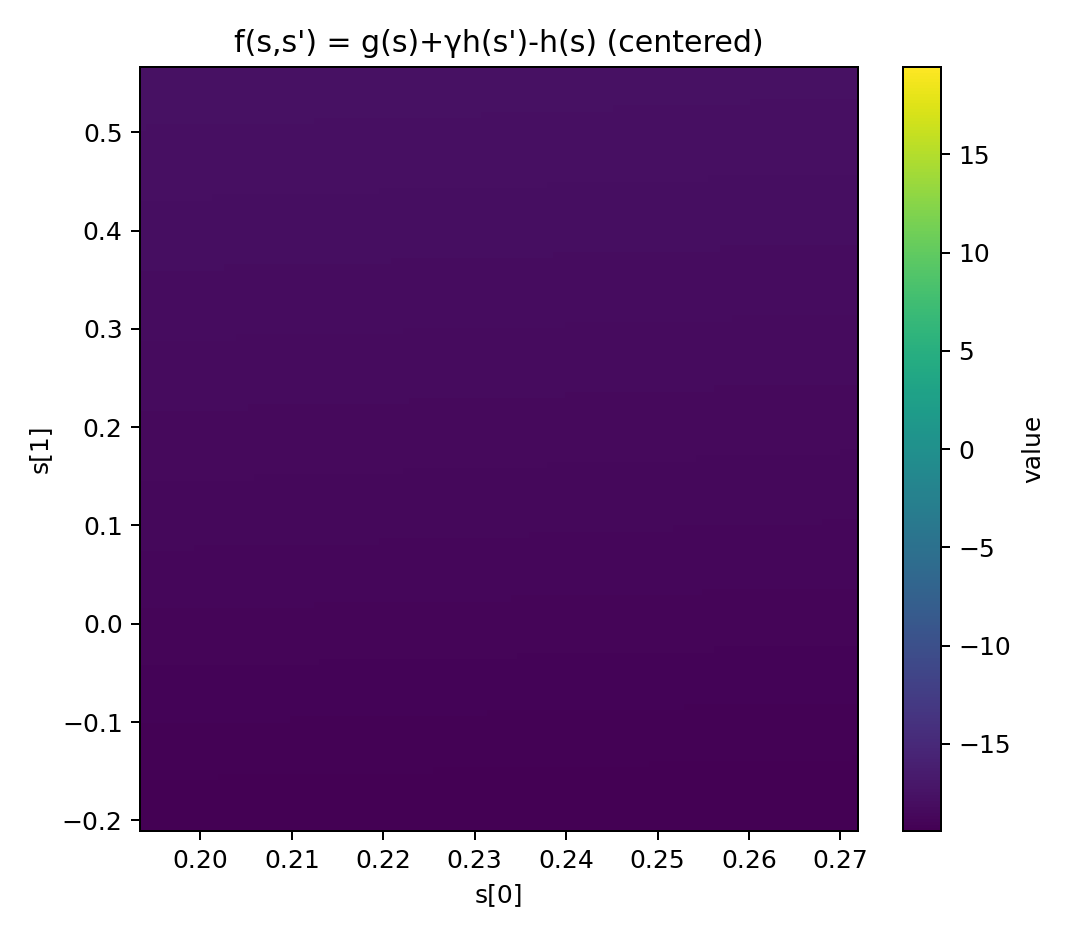
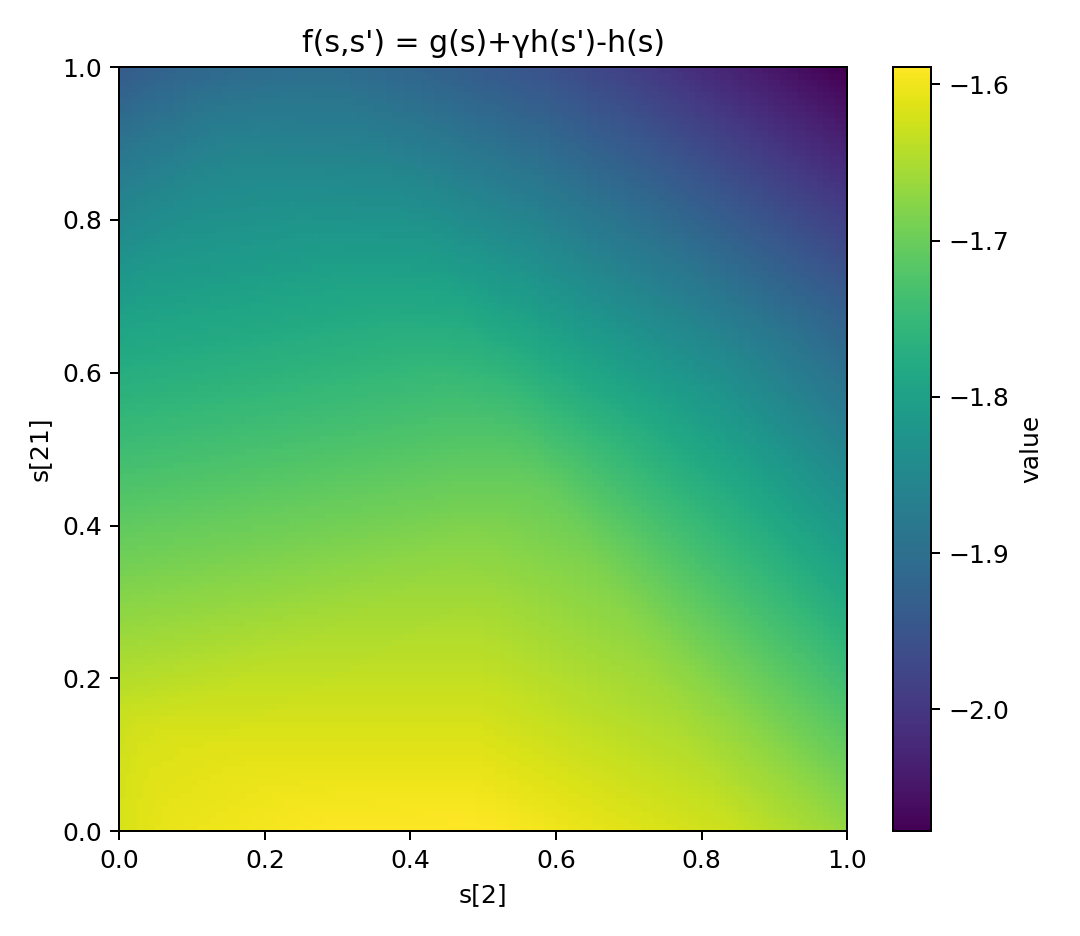
commit

diff --git a/visualize_reward.py b/visualize_reward.py
@@ -6,9 +6,10 @@ from networks.actor import ActorNetworkPolicy
 from networks.discrim import AIRLDiscrim
 import logging
 from common.base import LoggerWriter
-from common.normalized_env_66k import CoppeliaSimEnv
+from common.normalized_env_60k import CoppeliaSimEnv
 import matplotlib.pyplot as plt
 import math
+import pandas as pd 
 
 
 # ----------------------------- helpers: ranges & grid -----------------------------------
@@ -20,8 +21,10 @@ def _get_base_state(env, mode="center", median_state=None):
       - "reset":  one observation from env.reset()
       - "given":  use provided 'median_state' (e.g., dataset median)
     """
-    low = np.asarray(env.observation_space_low, dtype=np.float32)
-    high = np.asarray(env.observation_space_high, dtype=np.float32)
+    # low = np.asarray(env.observation_space_low, dtype=np.float32)
+    # high = np.asarray(env.observation_space_high, dtype=np.float32)
+    low = np.zeros(env.observation_space.shape, dtype=np.float32)
+    high = np.ones(env.observation_space.shape, dtype=np.float32)
     if mode == "center":
         return (low + high) / 2.0
     elif mode == "reset":
@@ -43,8 +46,10 @@ def _get_axis_range(env, dim, mode="space", data_percentiles=None, p_low=1, p_hi
       - "space": use observation_space.low/high
       - "data":  use percentiles from provided data samples (array of that dim)
     """
-    low = float(env.observation_space_low[dim])
-    high = float(env.observation_space_high[dim])
+    # low = float(env.observation_space_low[dim])
+    # high = float(env.observation_space_high[dim])
+    low = np.zeros(env.observation_space.shape, dtype=np.float32)[dim]
+    high = np.ones(env.observation_space.shape, dtype=np.float32)[dim]
     if mode == "space" or data_percentiles is None:
         return low, high
     v = np.asarray(data_percentiles, dtype=np.float32).reshape(-1)
@@ -174,32 +179,24 @@ def _make_next_states(method, env, actor, states, device, gamma=0.99, n_samples=
         raise ValueError(f"Unknown next_state method: {method}")
     
 # -------------------------------- plotting utility ----------------------------------------
-def _save_heatmap(Z, xs, ys, extent, xlabel, ylabel, title, save_path,
-                  center_zero=True, vclip_percentile=(1, 99)):
+def _save_heatmap(Z, xs, ys, extent, xlabel, ylabel, title, save_path):
     """
-    Save a 2D heatmap from matrix Z of shape [len(ys), len(xs)].
+    Save a 2D heatmap where the colorbar range is simply [min(Z), max(Z)].
+    No percentile clipping, no manual centering.
     """
-    # percentile clipping
     Znp = np.asarray(Z, dtype=np.float32)
-    if vclip_percentile is not None:
-        lo = np.percentile(Znp, vclip_percentile[0])
-        hi = np.percentile(Znp, vclip_percentile[1])
-        if hi > lo:
-            Znp = np.clip(Znp, lo, hi)
+
+    vmin = float(np.nanmin(Znp))  # use data-driven range
+    vmax = float(np.nanmax(Znp))
 
     plt.figure(figsize=(6.0, 5.2))
     im = plt.imshow(
         Znp, origin="lower",
         extent=[extent[0], extent[1], extent[2], extent[3]],
-        aspect="auto"
+        aspect="auto",
+        vmin=vmin, vmax=vmax   # <- colorbar bounds from actual values
     )
-    if center_zero:
-        # set symmetric color limits around zero if possible
-        m = max(abs(Znp.min()), abs(Znp.max()))
-        im.set_clim(-m, m)
-        plt.title(f"{title} (centered)")
-    else:
-        plt.title(title)
+    plt.title(title)
     cbar = plt.colorbar(im)
     cbar.set_label("value")
     plt.xlabel(xlabel)
@@ -226,11 +223,12 @@ def visualize_g_heatmap(env, disc, device, dim_x, dim_y,
     # g(s): [N,1] or [N]
     g = disc.g(s)
     g = g.view(grid_size, grid_size).detach().cpu().numpy()
+    print("g:", g)
+    print("g shape:", g.shape)
     _save_heatmap(
         g, xs, ys, [extent[0], extent[1], extent[2], extent[3]],
         xlabel=f"s[{dim_x}]", ylabel=f"s[{dim_y}]",
-        title="g(s) ~ recovered reward", save_path=save_path,
-        center_zero=True
+        title="g(s) ~ recovered reward", save_path=save_path
     )
 
 @torch.no_grad()
@@ -259,8 +257,7 @@ def visualize_f_heatmap(env, disc, device, dim_x, dim_y, gamma,
     _save_heatmap(
         f, xs, ys, [extent[0], extent[1], extent[2], extent[3]],
         xlabel=f"s[{dim_x}]", ylabel=f"s[{dim_y}]",
-        title="f(s,s') = g(s)+γh(s')-h(s)", save_path=save_path,
-        center_zero=True
+        title="f(s,s') = g(s)+γh(s')-h(s)", save_path=save_path
     )
 
 @torch.no_grad()
@@ -304,23 +301,98 @@ def visualize_logit_heatmap(env, disc, actor, device, dim_x, dim_y, gamma,
             acc += (f_val - log_pi)
         logit = acc / float(samples_per_state)
 
+    logit = disc(s, 0, log_pi, s_next)
+    print("logit:", logit)
+    print("logit shape:", logit.shape)
+
     Z = logit.view(grid_size, grid_size).detach().cpu().numpy()
     _save_heatmap(
         Z, xs, ys, [extent[0], extent[1], extent[2], extent[3]],
         xlabel=f"s[{dim_x}]", ylabel=f"s[{dim_y}]",
-        title="logit(s,a,s')", save_path=save_path,
-        center_zero=True
+        title="logit(s,a,s')", save_path=save_path
     )
 # ======================= end of Visualizers =======================
-    
+
+
+
+
+
+
+
+
+
+
+
+
+def load_expert_data(expert_file):
+
+    # load the expert data (CoppeliaSim)
+    data = pd.read_csv(expert_file, header=None)
+    states_np = data[[
+                                    'body_x', 'body_y',
+                                    'body_z', 
+                                    'body_roll', 'body_pitch', 'body_yaw', 
+                                    'motor_pos_FL_TC', 'motor_pos_FL_CF', 'motor_pos_FL_FT', 
+                                    'motor_pos_ML_TC', 'motor_pos_ML_CF', 'motor_pos_ML_FT',
+                                    'motor_pos_HL_TC', 'motor_pos_HL_CF', 'motor_pos_HL_FT',
+                                    'motor_pos_FR_TC', 'motor_pos_FR_CF', 'motor_pos_FR_FT',
+                                    'motor_pos_MR_TC', 'motor_pos_MR_CF', 'motor_pos_MR_FT',
+                                    'motor_pos_HR_TC', 'motor_pos_HR_CF', 'motor_pos_HR_FT',
+                                    # 'qvel_body_x', 'qvel_body_y', 'qvel_body_z', 'qvel_body_roll', 'qvel_body_pitch', 'qvel_body_yaw',
+                                    # 'qvel_FL_TC', 'qvel_FL_CF', 'qvel_FL_FT',
+                                    # 'qvel_ML_TC', 'qvel_ML_CF', 'qvel_ML_FT',
+                                    # 'qvel_HL_TC', 'qvel_HL_CF', 'qvel_HL_FT',
+                                    # 'qvel_FR_TC', 'qvel_FR_CF', 'qvel_FR_FT',
+                                    # 'qvel_MR_TC', 'qvel_MR_CF', 'qvel_MR_FT',
+                                    # 'qvel_HR_TC', 'qvel_HR_CF', 'qvel_HR_FT',
+                                    'force_FL', 'force_ML', 'force_HL', 'force_FR', 'force_MR', 'force_HR',
+                                    'FL_foot_traj_z', 'ML_foot_traj_z', 'HL_foot_traj_z', 'FR_foot_traj_z', 'MR_foot_traj_z', 'HR_foot_traj_z',
+                                    # 'contact_FL', 'contact_ML', 'contact_HL', 'contact_FR', 'contact_MR', 'contact_HR'
+                                ]].values
+    actions_np = data[[
+                                    'motor_cmd_FL_TC', 'motor_cmd_FL_CF', 'motor_cmd_FL_FT',
+                                    'motor_cmd_ML_TC', 'motor_cmd_ML_CF', 'motor_cmd_ML_FT',
+                                    'motor_cmd_HL_TC', 'motor_cmd_HL_CF', 'motor_cmd_HL_FT',
+                                    'motor_cmd_FR_TC', 'motor_cmd_FR_CF', 'motor_cmd_FR_FT',
+                                    'motor_cmd_MR_TC', 'motor_cmd_MR_CF', 'motor_cmd_MR_FT',
+                                    'motor_cmd_HR_TC', 'motor_cmd_HR_CF', 'motor_cmd_HR_FT'
+                                ]].values
+
+    states = []
+    actions = []
+    next_states = []
+    for i in range(len(states_np) - 1):
+        states.append(states_np[i])
+        actions.append(actions_np[i])
+        next_states.append(states_np[i + 1])
+
+    states = np.array(states, dtype=np.float32)
+    actions = np.array(actions, dtype=np.float32)
+    next_states = np.array(next_states, dtype=np.float32)
+    rewards = np.zeros(len(states), dtype=np.float32)  # Assuming zero rewards for expert data (not affect AIRL training)
+    dones = np.zeros(len(states), dtype=np.float32)  # Assuming no terminal states for expert data
+
+    expert_data = {
+        'state': states,
+        'action': actions,
+        'reward': rewards,
+        'done': dones,
+        'next_state': next_states
+    }
+    # print(f"Expert data states: {expert_data['state'].shape}, actions: {expert_data['action'].shape}")
+    # print(expert_data)
+
+    return expert_data
+
+
 # ======== Parameters (modify these as needed) =========
-ENV_ID = "Medauroidea_66k_aug3c_uneven"
+ENV_ID = "Medauroidea_60000_offset"
 ALGO = "airl_logit"
-FILENAME = "20250930-1352" 
+FILENAME = "20250819-1650" 
 PORT = 23000 # CoppeliaSim port: default is 23000
 CUDA = 0
 NUM_EPISODES = 5
-STEP_NUM =350000  # Choose a certain step number of the saved model or None 
+STEP_NUM =1250000  # Choose a certain step number of the saved model or None 
 # =================================================
 
 
@@ -334,6 +406,7 @@ env = CoppeliaSimEnv(port=PORT, OnTimeStep=OnTimeStep, simulation = False)
 # Get state and action shapes from the environment
 state_shape = env.observation_space.shape    # e.g., (28,)
 action_shape = env.action_space.shape          # e.g., (18,)
+print(f"State shape: {state_shape}, Action shape: {action_shape}")
 
 # Instantiate the Actor network with the same architecture as used during training
 actor = ActorNetworkPolicy(
@@ -366,7 +439,7 @@ if os.path.exists(actor_path):
     print(f"Loaded discriminator model from {disc_path}")
 
 # ---------- Visualization calls (choose state dims you care about) ----------
-dim_x, dim_y = 0, 1        # pick two interpretable state indices
+dim_x, dim_y = 2, 21       # pick two interpretable state indices
 grid = 120                 # 80~160 is common
 gamma = 0.995              # use your training gamma
 

diff --git a/common/normalized_env_60k.py b/common/normalized_env_60k.py
@@ -50,9 +50,9 @@ class CoppeliaSimEnv:
 
     OBS_SPEC: tuple[ObsField, ...] = (
 
-                    ObsField('body_pos',      1,  'get_bodyposition',   'per_dim',
-                                low=np.array([-0.17508288]),  # np.array([-1.5580437, -3.7254312,  0.17508288]), 
-                                high=np.array([0.34497491]),  # np.array([ 7.0512481, -0.013637958, 0.34497491]), 
+                    ObsField('body_pos',      3,  'get_bodyposition',   'per_dim',
+                                np.array([-1.5580437, -3.7254312,  0.17508288]), 
+                                np.array([ 7.0512481, -0.013637958, 0.34497491]), 
                                 include=True), # True, False
 
                     ObsField('orientation',   3,  'get_bodyorientation','shared',
@@ -76,16 +76,16 @@ class CoppeliaSimEnv:
                     ObsField('forces',        6,  'get_force',          'shared',
                                 low=0.0,
                                 high=max([11.376931, 23.541754, 18.792133, 10.039366, 19.01429, 18.701794]),
-                                include=False), 
+                                include=True), 
 
                     ObsField('foot_traj',     6,  'get_foot_trajectory','shared',
                                 low=min([-0.06665716, 0.00653887, 0.00611944, 0.0062973, 0.00600731, 0.00665024]), 
                                 high=max([0.42798841, 0.14256591, 0.26136336, 0.18555231, 0.11940541, 0.29765788]),
-                                include=False), 
+                                include=True), 
                             
                     ObsField('contact',       6,  'get_contact',        'binary',
                                 low=None, high=None, 
-                                include=True))
+                                include=False))
 
     action_space_high = np.array([
                         -0.08928384,  0.64018328,  0.73880163,
@@ -134,7 +134,7 @@ class CoppeliaSimEnv:
         # normalization parameters for action space
         self._action_mid = (self.action_space_high + self.action_space_low) / 2.0
         self._action_scale = (self.action_space_high - self.action_space_low) / 2.0
-        print(f"Action space mid: {self._action_mid}, scale: {self._action_scale}")
+        # print(f"Action space mid: {self._action_mid}, scale: {self._action_scale}")
 
 
     # ------------------- Build obs layout ------------------- #
